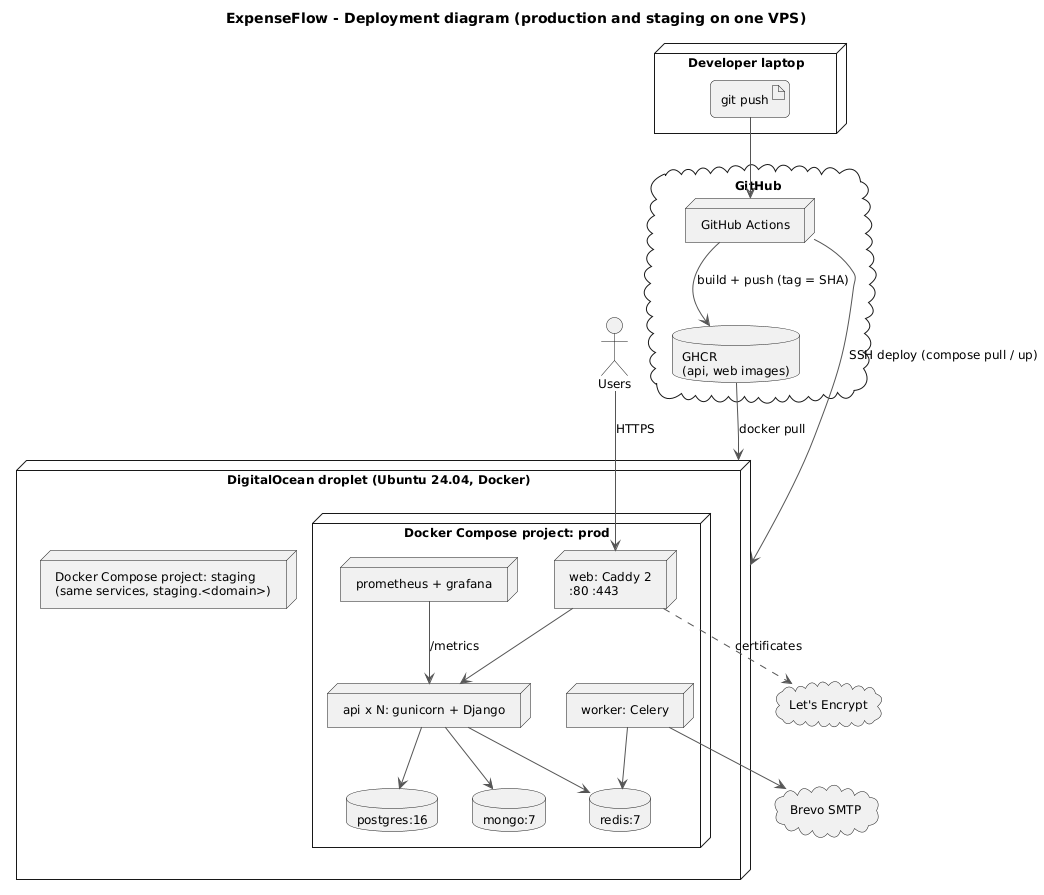
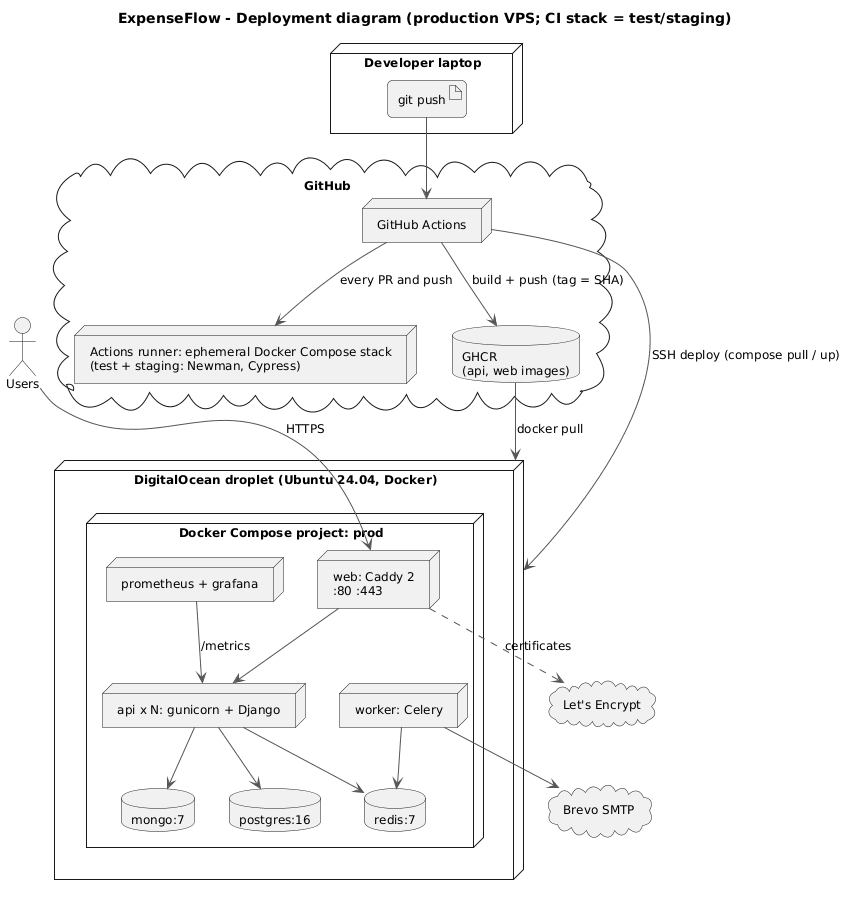
ci(deploy): deploy production from main only; the CI stack is staging (#17)
One VPS runs production. develop is no longer deployed: the ephemeral Docker stack in the CI e2e job is the test and staging environment. The deploy job now skips with a notice until VPS_HOST is set in the production environment, instead of failing every push. Deployment guide, maintenance doc, deployment diagram and Locust header updated to match.

Refs #17

diff --git a/frontend/cypress/support/e2e.js b/frontend/cypress/support/e2e.js
@@ -11,7 +11,7 @@ Cypress.Commands.add('login', (email, password = PASSWORD) => {
   cy.visit('/');
 });
 
-// Latest email for an address from Mailpit (dev/staging SMTP catcher)
+// Latest email for an address from Mailpit (SMTP catcher in the dev and CI stacks)
 Cypress.Commands.add('lastEmailTo', (address) =>
   cy
     .request(`${Cypress.env('mailpitUrl')}/api/v1/search?query=to:${encodeURIComponent(address)}`)

diff --git a/tests/locust/locustfile.py b/tests/locust/locustfile.py
@@ -1,4 +1,4 @@
-"""Load test: locust -f tests/locust/locustfile.py --host https://staging.<domain>
+"""Load test: locust -f tests/locust/locustfile.py --host https://localhost  (the CI-mode stack is the staging target)
 
 Headless, 1000 users, ramp 50/s, 5 minutes:
   locust -f tests/locust/locustfile.py --host https://localhost --headless -u 1000 -r 50 -t 5m --csv results/run
@@ -21,7 +21,7 @@ class Employee(HttpUser):
     wait_time = between(1, 3)
 
     def on_start(self):
-        self.client.verify = False  # self-signed certificate on local/staging
+        self.client.verify = False  # self-signed certificate on the local stack
         email = f"{random.choice(USERS)}@expenseflow.dev"
         r = self.client.post("/api/v1/auth/login/", json={"email": email, "password": PASSWORD}, name="login")
         self.client.headers["Authorization"] = f"Bearer {r.json().get('access', '')}"

diff --git a/docs/deployment.md b/docs/deployment.md
@@ -1,25 +1,26 @@
 # Deployment guide
 
+Environments: **local** (each laptop, `docker-compose.dev.yml`), **test/staging** (the ephemeral Docker stack the CI
+e2e job builds on every PR and push, `docker-compose.ci.yml`, where Newman and Cypress run), and **production**
+(one VPS, `docker-compose.prod.yml`, deployed from `main`). There is no long-running staging server: one VPS only
+needs one set of ports 80/443, and the CI stack runs the same images and compose files on every change.
+
 ## One-time server setup (about 1 hour)
 1. Create an Ubuntu 24.04 droplet (2 vCPU, 4 GB) with the GitHub Student Pack credit.
-2. DNS: A records `<domain>` and `staging.<domain>` to the droplet IP.
+2. DNS: an A record for `<domain>` (and optionally `www`) to the droplet IP.
 3. On the server:
    ```bash
    adduser deploy && usermod -aG docker deploy      # after installing Docker Engine
    ufw allow 22,80,443/tcp && ufw enable
    su - deploy
-   git clone https://github.com/<org>/expenseflow.git ~/expenseflow-prod
-   git clone -b develop https://github.com/<org>/expenseflow.git ~/expenseflow-staging
+   git clone https://github.com/RrezeKonjusha/expenseflow.git ~/expenseflow-prod
    cp ~/expenseflow-prod/.env.example ~/expenseflow-prod/.env      # edit secrets, SITE_DOMAIN=<domain>
-   cp ~/expenseflow-staging/.env.example ~/expenseflow-staging/.env # SITE_DOMAIN=staging.<domain>
    ```
-   Each stack binds ports 80/443, so staging and production need separate hosts. Simplest: a second small droplet
-   for staging (clone only `~/expenseflow-staging` there).
-4. In GitHub, create two Environments, `staging` and `production`, each with secrets `VPS_HOST`, `VPS_USER=deploy`,
-   `VPS_SSH_KEY` (private key) and `DOMAIN` (same base domain in both). The deploy job picks the right set automatically.
+4. In GitHub, Settings > Environments > `production`: add secrets `VPS_HOST`, `VPS_USER=deploy`,
+   `VPS_SSH_KEY` (private key) and `DOMAIN`. Until `VPS_HOST` exists the deploy job skips with a notice.
 
 ## Every deploy (automatic)
-Push to `develop` deploys staging; push to `main` deploys production (`.github/workflows/deploy.yml`):
+Merging `develop` into `main` deploys production (`.github/workflows/deploy.yml`); `develop` is only tested, in the CI stack:
 build images, push to GHCR tagged with the commit SHA, SSH, `docker compose pull && up -d`, smoke-check `/health/`.
 Migrations run automatically when the `api` container starts (`RUN_MIGRATIONS=1`).
 

diff --git a/docs/maintenance.md b/docs/maintenance.md
@@ -31,6 +31,6 @@ If the bad release contained a migration, restore the database backup taken befo
 | Task | How |
 | --- | --- |
 | Create an admin | `docker compose exec api python manage.py createsuperuser` |
-| Reset demo data (staging only) | `docker compose exec api python manage.py seed_demo --reset` |
+| Reset demo data (local or CI stack only, never production) | `docker compose exec api python manage.py seed_demo --reset` |
 | Rotate secrets | change `.env`, `docker compose up -d`; rotating `JWT_SIGNING_KEY` signs everyone out |
 | Update dependencies | monthly PR: bump `requirements.txt` / `package.json`, CI must pass |
